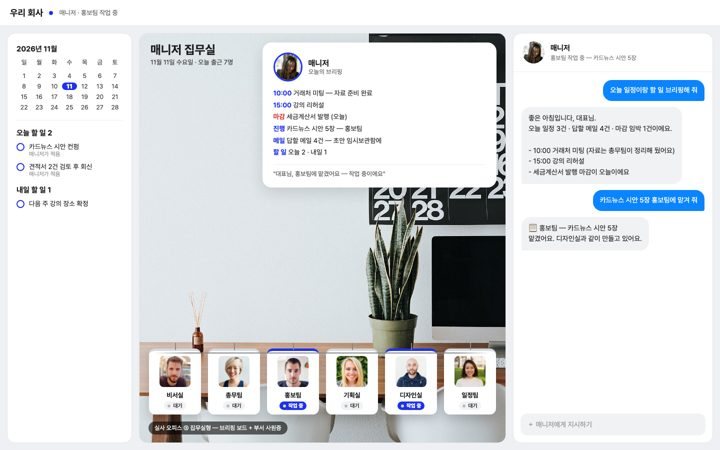
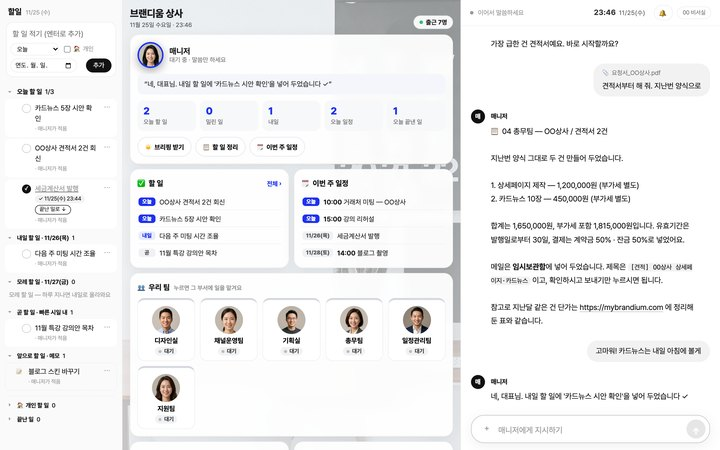
신청 3단계: 화면 6개 고르기 → 실사 오피스 대시보드 하나로, 미리보기 새 화면

diff --git a/start/index.html b/start/index.html
@@ -455,9 +455,8 @@ $("next").onclick = async () => {
 let AI = null, FILES = [], CHIEF = "", TITLE = "", MORE = false;
 let SCREEN = "";
 /* 첫 화면 템플릿 (화면템플릿/ 시안 2026-10-19) — 고른 값은 design.설정.화면 → 설치 때 그 화면으로 */
-const OS_SCREENS = [
-  ["캐릭터형", "부서 직원 캐릭터가 나와요", [["hq", "본사형", "도트 사무실에 부서 직원들이 일해요"], ["village", "동물의숲형", "마을에 부서별 집, 동물 직원"], ["cyworld", "싸이월드형", "미니홈피 · 미니룸 · 방명록"]]],
-  ["실사 오피스형", "실제 사무실 사진 + 직원 얼굴", [["meeting", "회의실형", "매니저가 상석, 부서 직원이 둘러앉아요"], ["tower", "빌딩 층별형", "불 켜진 층이 일하는 부서"], ["desk", "집무실형", "오늘 브리핑 보드 + 부서 사원증"]]]];
+const OS_SCREENS = [   /* 2026-11-25 대표님: 6개 중 고르기 → 오류 없는 기본 화면 하나(실사 오피스 대시보드). 꾸미기는 설치 뒤 매니저에게 */
+  ["업무 대시보드", "실사 오피스 · 컴퓨터에선 대화창과 한 화면", [["desk", "실사 오피스 대시보드", "오늘 할 일 · 일정 · 팀 현황 · 최근 파일 · 사용량을 한눈에"]]]];
 /* 부품 고르기 (2026-11-16 설치 개편 ②) — 대화창 모양 · 칸 켜고 끄기 · 포인트 색 → design.설정.대화창/기능/포인트색/사무실 */
 const OS_CHATS = [["same", "사무실과 어울리게", "고른 사무실에 맞춰 드려요"], ["hq", "사내 메신저", "파란 메신저 · 도트 얼굴"], ["village", "동물의숲", "크림 말풍선 · 이름표"], ["cyworld", "싸이월드", "파란 방명록 · 미니미"], ["magazine", "매거진", "흑백 세리프 지면"], ["minimal", "미니멀", "말풍선 없이 여백"], ["diary", "다이어리", "줄노트 · 포스트잇"]];
 const OS_PARTS = [["할일", "✅ 할 일 목록", "오늘·내일·곧 할 일", "예) 매니저에게 맡긴 일과 내 할 일이 한 줄씩 쌓이고, 끝나면 체크", "todo"],
@@ -502,7 +501,7 @@ async function renderAI() {
     const titles = ["매니저", "비서실장", "실장", "비서"];
     d.설정 = d.설정 || {}; if (!SCREEN) SCREEN = d.설정.화면 || "hq";
     const SIX = OS_SCREENS.flatMap(([, , l]) => l.map(([k]) => k));   // 사이트에서 고르는 6가지 — 예전 화면(다이어리·매거진·미니멀·대화만)이 남아 있으면 본사형으로 (2026-11-17)
-    if (!SIX.includes(SCREEN)) { SCREEN = "hq"; d.설정.화면 = "hq"; delete d.설정.사무실; }
+    SCREEN = "desk"; d.설정.화면 = "desk"; delete d.설정.사무실;
     $("main").innerHTML = `<style>${OS_PROP_CSS}.chsame{display:flex;align-items:center;justify-content:center;aspect-ratio:16/10;font-size:40px;background:#f4f1ec}.ptg{display:grid;grid-template-columns:repeat(3,1fr);gap:8px}.pt{text-align:left;border:2px solid #d9d2c7;background:#fff;border-radius:14px;padding:10px 12px;cursor:pointer;font:inherit;opacity:.55}.pt.on{border-color:var(--ink);opacity:1;box-shadow:2px 2px 0 var(--ink)}.pt b{display:block;font-size:15px}.pt small{opacity:.65;font-size:12.5px}.pt em{display:block;font-style:normal;font-size:12px;opacity:.75;margin-top:6px;line-height:1.5}.pim{display:flex;align-items:flex-start;justify-content:center;height:96px;overflow:hidden;border-radius:10px;background:#1b1b2e;margin-bottom:8px}.pim img{width:100%;object-fit:cover;object-position:top}.pt.on b:after{content:" ✓";color:#2f9e44}.clr{display:flex;flex-wrap:wrap;gap:10px}.cl{border:0;background:none;cursor:pointer;text-align:center;font:inherit}.cl i{display:block;width:38px;height:38px;border-radius:50%;border:3px solid #fff;box-shadow:0 0 0 2px #d9d2c7;margin:0 auto 4px}.cl.on i{box-shadow:0 0 0 3px var(--ink)}.cl small{font-size:12px}.bigpv{display:flex;gap:0;border:2px solid var(--ink);border-radius:14px;overflow:hidden;background:#fff;height:440px}.bp-side{width:150px;flex:none;background:#14142a;padding:8px;display:flex;flex-direction:column;gap:6px;overflow:hidden}.bp-side img{width:100%;border-radius:6px}.bp-new{color:#fff;font-weight:800;font-size:12px;text-align:center;border-radius:8px;padding:7px}.bp-empty{color:#fff;opacity:.5;font-size:12px;text-align:center}.bp-todo{width:190px;flex:none;border-right:1px solid #eee;overflow:hidden}.bp-todo img{width:100%}.bp-main{flex:1;position:relative;overflow:hidden;background:#f6f6f8}.bp-main img{width:100%;height:100%;object-fit:cover;object-position:right top}.bp-go{position:absolute;right:12px;bottom:12px;color:#fff;font-weight:800;font-size:13px;padding:8px 16px;border-radius:10px;box-shadow:0 2px 8px rgba(0,0,0,.2)}@media(max-width:700px){.bigpv{height:300px}.bp-side{width:90px}.bp-todo{width:110px}}.bigpv2{border:3px solid var(--ink);border-radius:14px;overflow:hidden;background:#fff}.bigpv2 img{display:block;width:100%;height:auto}.pcs{display:inline-block;width:14px;height:14px;border-radius:50%;vertical-align:-2px;margin-right:6px}.mypv{margin-top:26px;background:#fff;border:2px solid var(--ink);border-radius:18px;padding:14px}.mypv .h{font-weight:900;margin-bottom:10px}.mypv .ims{display:grid;grid-template-columns:1fr 1fr;gap:10px}.mypv .ims div{border-radius:10px;overflow:hidden;border:1px solid #e5dcd0;position:relative}.mypv .ims img{width:100%;display:block}.mypv .ims em{position:absolute;left:8px;top:8px;font-style:normal;font-size:12px;font-weight:800;background:#fff;border-radius:99px;padding:2px 9px}.mypv .on2{margin-top:10px;font-size:14px;line-height:1.7}.mypv .on2 span{display:inline-block;margin:0 6px 4px 0;padding:2px 10px;border-radius:99px;background:var(--pc,#1e31ef);color:#fff;font-weight:700;font-size:12.5px}@media(max-width:700px){.ptg{grid-template-columns:1fr 1fr}.mypv .ims{grid-template-columns:1fr}}</style><div class="lab">STEP 3 · 제안</div><h1 style="font-size:26px">제안서가 나왔어요</h1>
       <p class="sub" style="margin-bottom:14px">✏ 점선 글자를 눌러 바로 고칠 수 있어요. 부서는 ✕로 빼고 ＋로 더하세요. 고친 내용은 저절로 저장됩니다. <span id="esv" class="note"></span></p>
       <div id="pv">${osProposal(d, CHIEF || null, { edit: true })}</div>
@@ -515,7 +514,7 @@ async function renderAI() {
       <h3 style="margin-top:22px">그다음, 이름 뒤에 붙일 호칭을 골라 주세요</h3><div class="names" id="tt">${titles.map((x) => `<button type="button" data-t="${x}" class="${TITLE === x ? "on" : ""}">${x}</button>`).join("")}</div>
       <input type="text" id="owt" placeholder="직접 적기 (예: 팀장, 집사)" value="${titles.includes(TITLE) ? "" : osEsc(TITLE)}" style="margin-top:6px">
       <p class="note" id="prev" style="font-size:16px;margin-top:14px"></p>
-      <h3 style="margin-top:30px">우리 사무실은 어떤 모습일까요?</h3><p class="note" style="margin-top:0">퍼스널 OS 앱을 열면 처음 보이는 화면이에요. 마음에 드는 걸 하나 고르세요. <b>설치 뒤에도 매니저에게 "화면 바꿔 줘"라고 하면 언제든 바꿀 수 있어요.</b></p>
+      <h3 style="margin-top:30px">우리 사무실 첫 화면</h3><p class="note" style="margin-top:0">퍼스널 OS 앱을 열면 이 <b>업무 대시보드</b>가 먼저 보여요. 컴퓨터에서는 대화창과 한 화면에 나란히, 휴대폰에서는 단추로 오가요. <b>색·배치는 설치 뒤 매니저에게 "화면 이렇게 바꿔 줘"라고 하면 바꿔 줘요.</b></p>
       ${OS_SCREENS.map(([grp, sub, list]) => `<div class="scg"><b>${grp}</b> <small>${sub}</small></div><div class="scr">${list.map(([k, nm, ds]) => `<button type="button" class="scb${SCREEN === k ? " on" : ""}" data-sc="${k}"><img src="screens/${k}.jpg" alt="${nm}" loading="lazy"><span><b>${nm}</b><small>${ds}</small></span><a href="screens/?v=261111#${k}" target="_blank" class="zoom">크게 보기</a></button>`).join("")}</div>`).join("")}
       <div class="mypv" id="mypv"></div>
       <p class="note" style="margin-top:10px">할 일 목록·메모판·달력 같은 도구는 <b>모두 켠 상태</b>로, 색은 기본색으로 설치돼요. 설치 뒤에 매니저에게 <b>"달력 꺼 줘", "색 초록으로 바꿔 줘"</b>처럼 말하면 바로 바꿔 줘요.</p>
